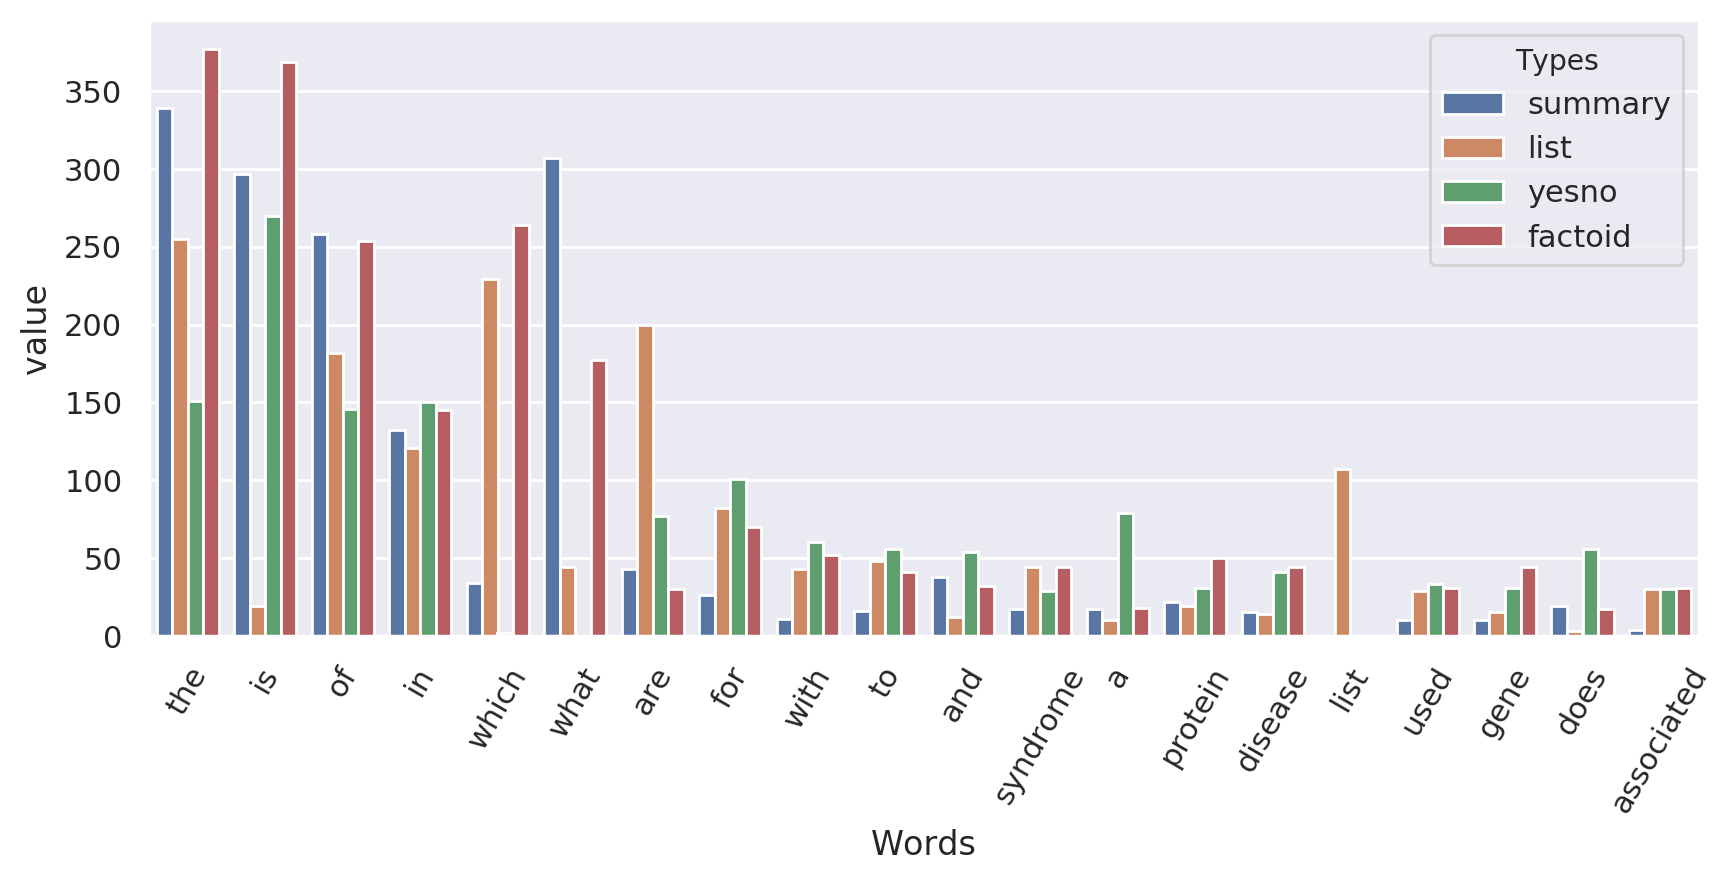
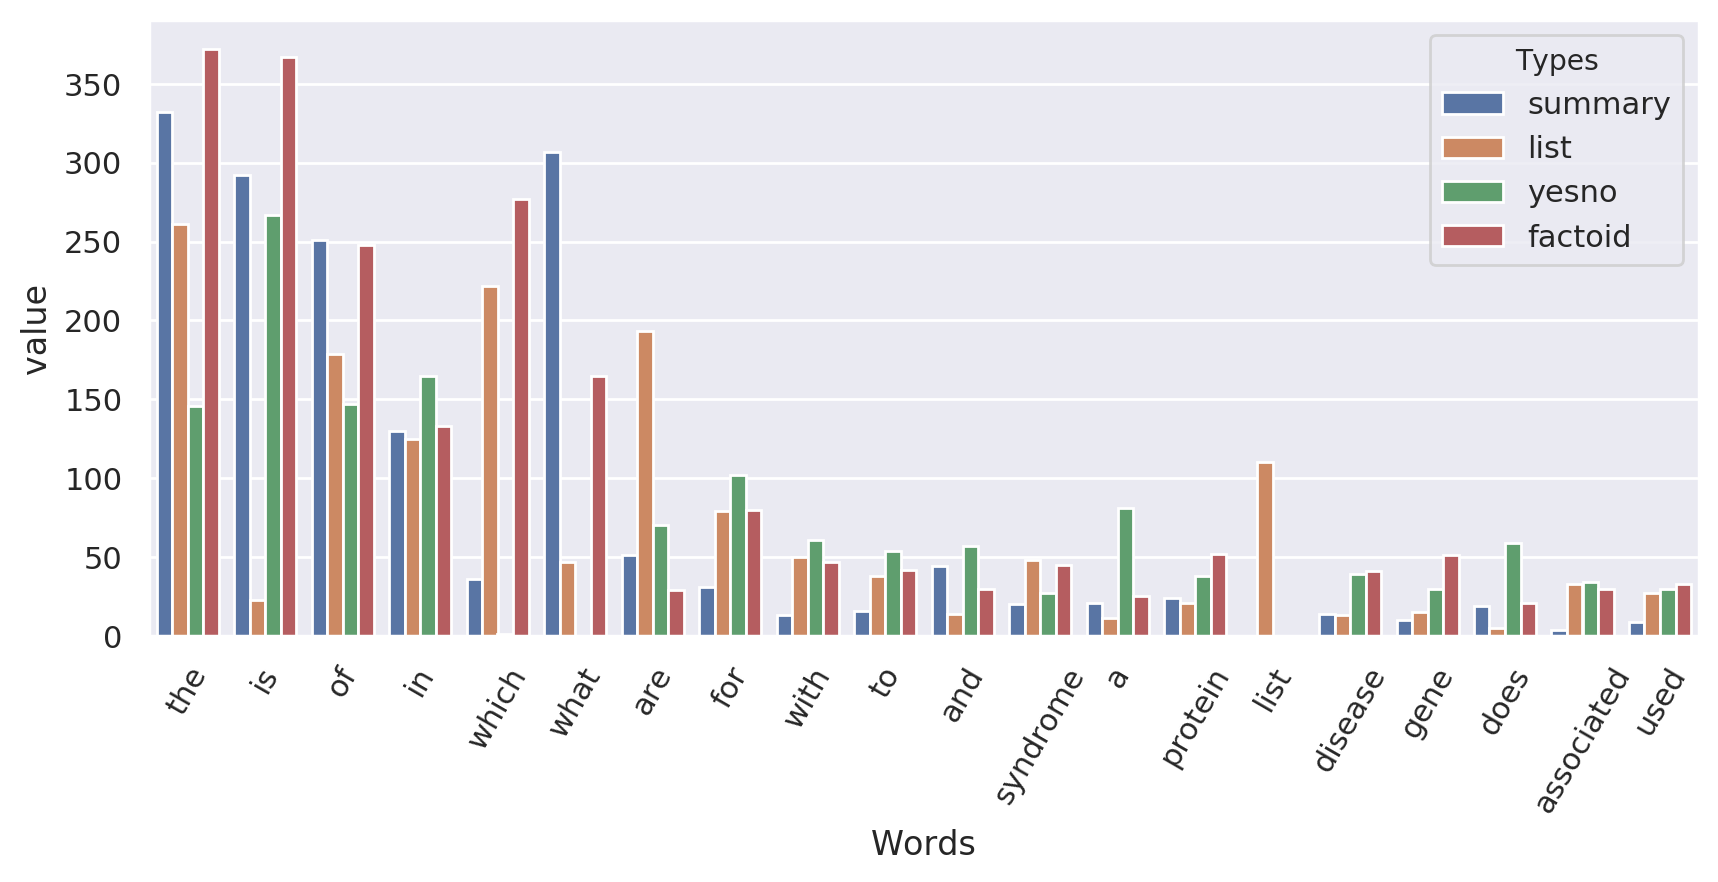
Add bi-grams to data analysis and some more plots

diff --git a/src/data_analysis.py b/src/data_analysis.py
@@ -8,8 +8,6 @@ from sklearn.model_selection import train_test_split
 
 sns.set(style="darkgrid")
 
-import numpy as np
-
 from matplotlib import pyplot as plt
 
 question_types = ['summary', 'list', 'yesno', 'factoid']
@@ -123,11 +121,48 @@ def most_common_words(questions, max_num_words=20):
     plt.savefig(data_analysis_path + 'barplot_' + 'most_common_words_by_type', bbox_inches='tight', dpi=200)
 
 
+def most_common_bigrams(questions, max_num_words=20):
+    words_by_class = {}
+    all_the_words = [clean_word(w) for s in
+                     questions['Question'].values for w in s.split()]
+    most_common_words_from_all_types = [word for word, word_count in Counter(zip(all_the_words,all_the_words[1:])).most_common(max_num_words)]
+    print('Most common bigrams in the whole dataset:\n', most_common_words_from_all_types)
+    df_most_common = pd.DataFrame(0, index=most_common_words_from_all_types, columns=question_types)
+    for question_type in question_types:
+        word_list = [clean_word(w) for s in
+                     questions.loc[questions['Type'] == question_type, 'Question'].values for w in s.split()]
+
+        count = Counter(zip(word_list, word_list[1:]))
+        words = list(count.keys())
+        values = list(count.values())
+        for w, v in zip(words,values):
+            try:
+                df_most_common.loc[w, question_type] = v
+            except:
+                pass
+
+        print('{}:'.format(question_type, len(Counter(word_list))), '\n',count.most_common(max_num_words),
+              '\n')
+        words_by_class[question_type] = word_list
+
+    print(df_most_common)
+
+    stacked = df_most_common.stack().reset_index().rename(columns={0: 'value'})
+
+    x_size = max_num_words // 2
+    y_size = 4
+    plt.figure(figsize=[x_size, y_size])
+    barplot = sns.barplot(x=stacked['level_0'], y=stacked['value'], hue=stacked['level_1'])
+    barplot.axes.get_legend().set_title('Types')
+    plt.xlabel('Words')
+    plt.xticks(rotation=90)
+    plt.savefig(data_analysis_path + 'barplot_' + 'most_common_bigrams_by_type', bbox_inches='tight', dpi=200)
+
+
 if __name__ == '__main__':
     local_data_path = '../data/'
     questions_path = os.path.join(local_data_path, 'Questions.xlsx')
     questions = pd.read_excel(questions_path)
-    print(questions.columns)
     y = questions['Type'].values
     X = questions.drop(['Type'], axis=1).values
     X_train, X_test, y_train, y_test = train_test_split(X, y, test_size=0.2, stratify=y)
@@ -138,6 +173,5 @@ if __name__ == '__main__':
     test_df = pd.DataFrame(X_test, columns=['Question'])
     test_df['Type'] = y_test
 
-
     print(X_train.shape, X_test.shape)
-    most_common_words(train_df)
+    most_common_bigrams(train_df)

diff --git a/src/t1_type_of_question_classifier.py b/src/t1_type_of_question_classifier.py
@@ -1,5 +1,6 @@
 import pandas as pd
 import seaborn as sns
+
 sns.set(style="darkgrid")
 
 from matplotlib import pyplot as plt
@@ -11,6 +12,7 @@ from sklearn.metrics import confusion_matrix
 from sklearn.model_selection import train_test_split
 from sklearn.naive_bayes import MultinomialNB
 from sklearn.svm import LinearSVC
+
 data_analysis_path = '../results/data_analysis/'
 
 
@@ -26,7 +28,8 @@ def train_model(model, X_train, X_test, y_train, y_test, category_id_df):
 
 
 def extract_features(df):
-    tfidf = TfidfVectorizer(sublinear_tf=True, min_df=5, norm='l2', encoding='latin-1', ngram_range=(1, 2))
+    tfidf = TfidfVectorizer(sublinear_tf=True, min_df=5, norm='l2', encoding='latin-1', ngram_range=(1, 2),)
+                            # stop_words='english')
     df['category_id'] = df['Type'].factorize()[0]
 
     category_id_df = df[['Type', 'category_id']].drop_duplicates().sort_values('category_id')
@@ -41,10 +44,10 @@ if __name__ == '__main__':
     features, labels, category_id_df = extract_features(df)
 
     X_train, X_test, y_train, y_test, indices_train, indices_test = train_test_split(features, labels, df.index,
-                                                                                     test_size=0.33, random_state=0)
+                                                                                     test_size=0.2,random_state=0)
 
     models = [
-        RandomForestClassifier(n_estimators=200, max_depth=500),
+        RandomForestClassifier(n_estimators=200),
         LinearSVC(),
         MultinomialNB(),
         LogisticRegression(random_state=0),
@@ -60,4 +63,5 @@ if __name__ == '__main__':
 
     sns.barplot(x=models_names, y=accuracies)
     plt.ylabel('Accuracies')
-    plt.savefig(data_analysis_path + 'barplot_' + 'baseline_models', bbox_inches='tight', dpi=200)
+    plt.ylim(0,1)
+    plt.savefig(data_analysis_path + 'barplot_' + 'baseline_models_with_stop_words', bbox_inches='tight', dpi=200)
